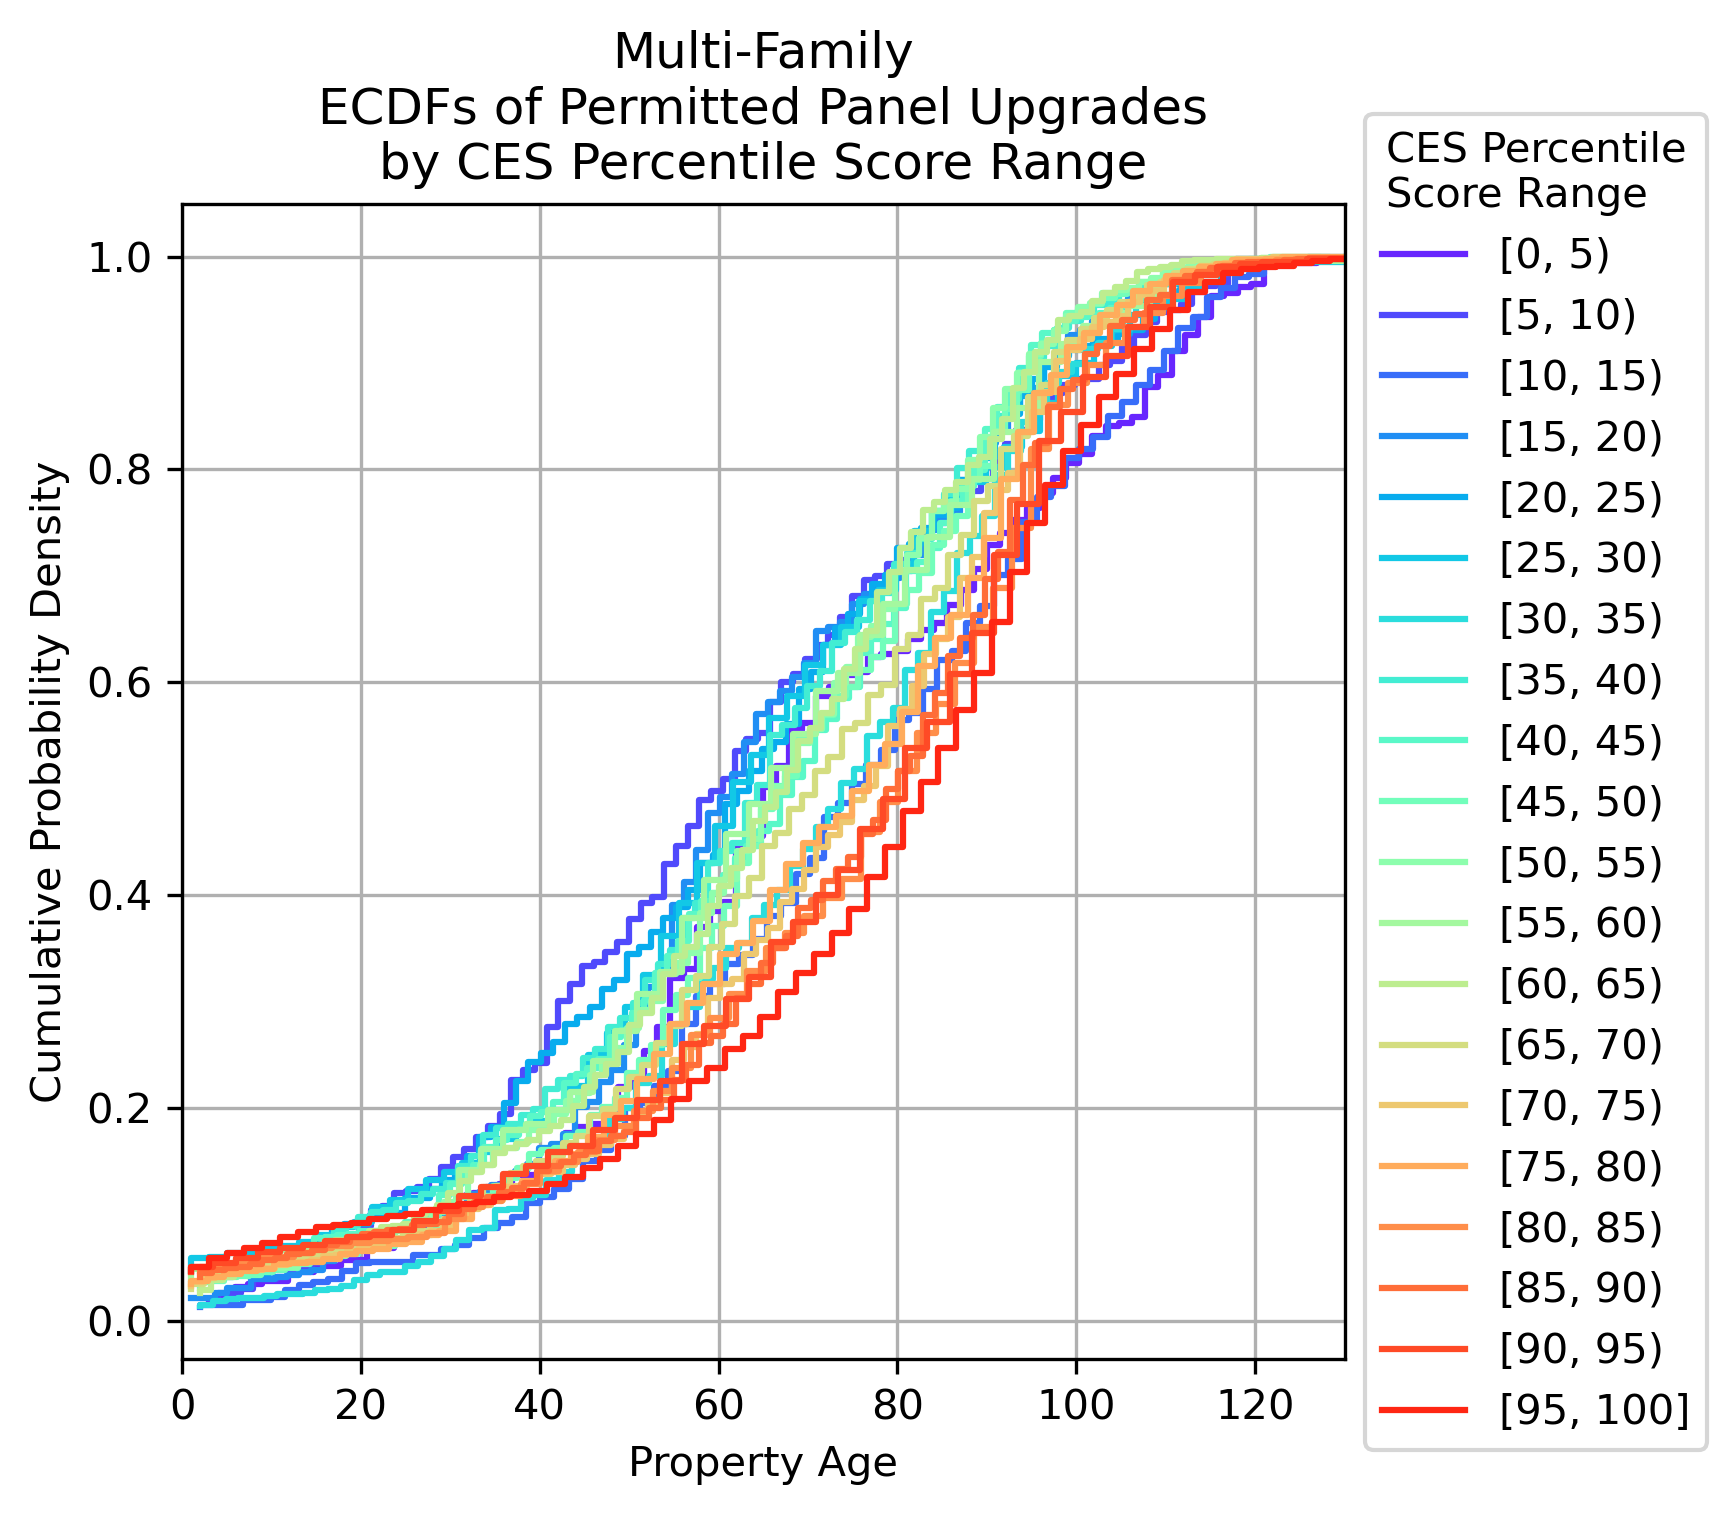
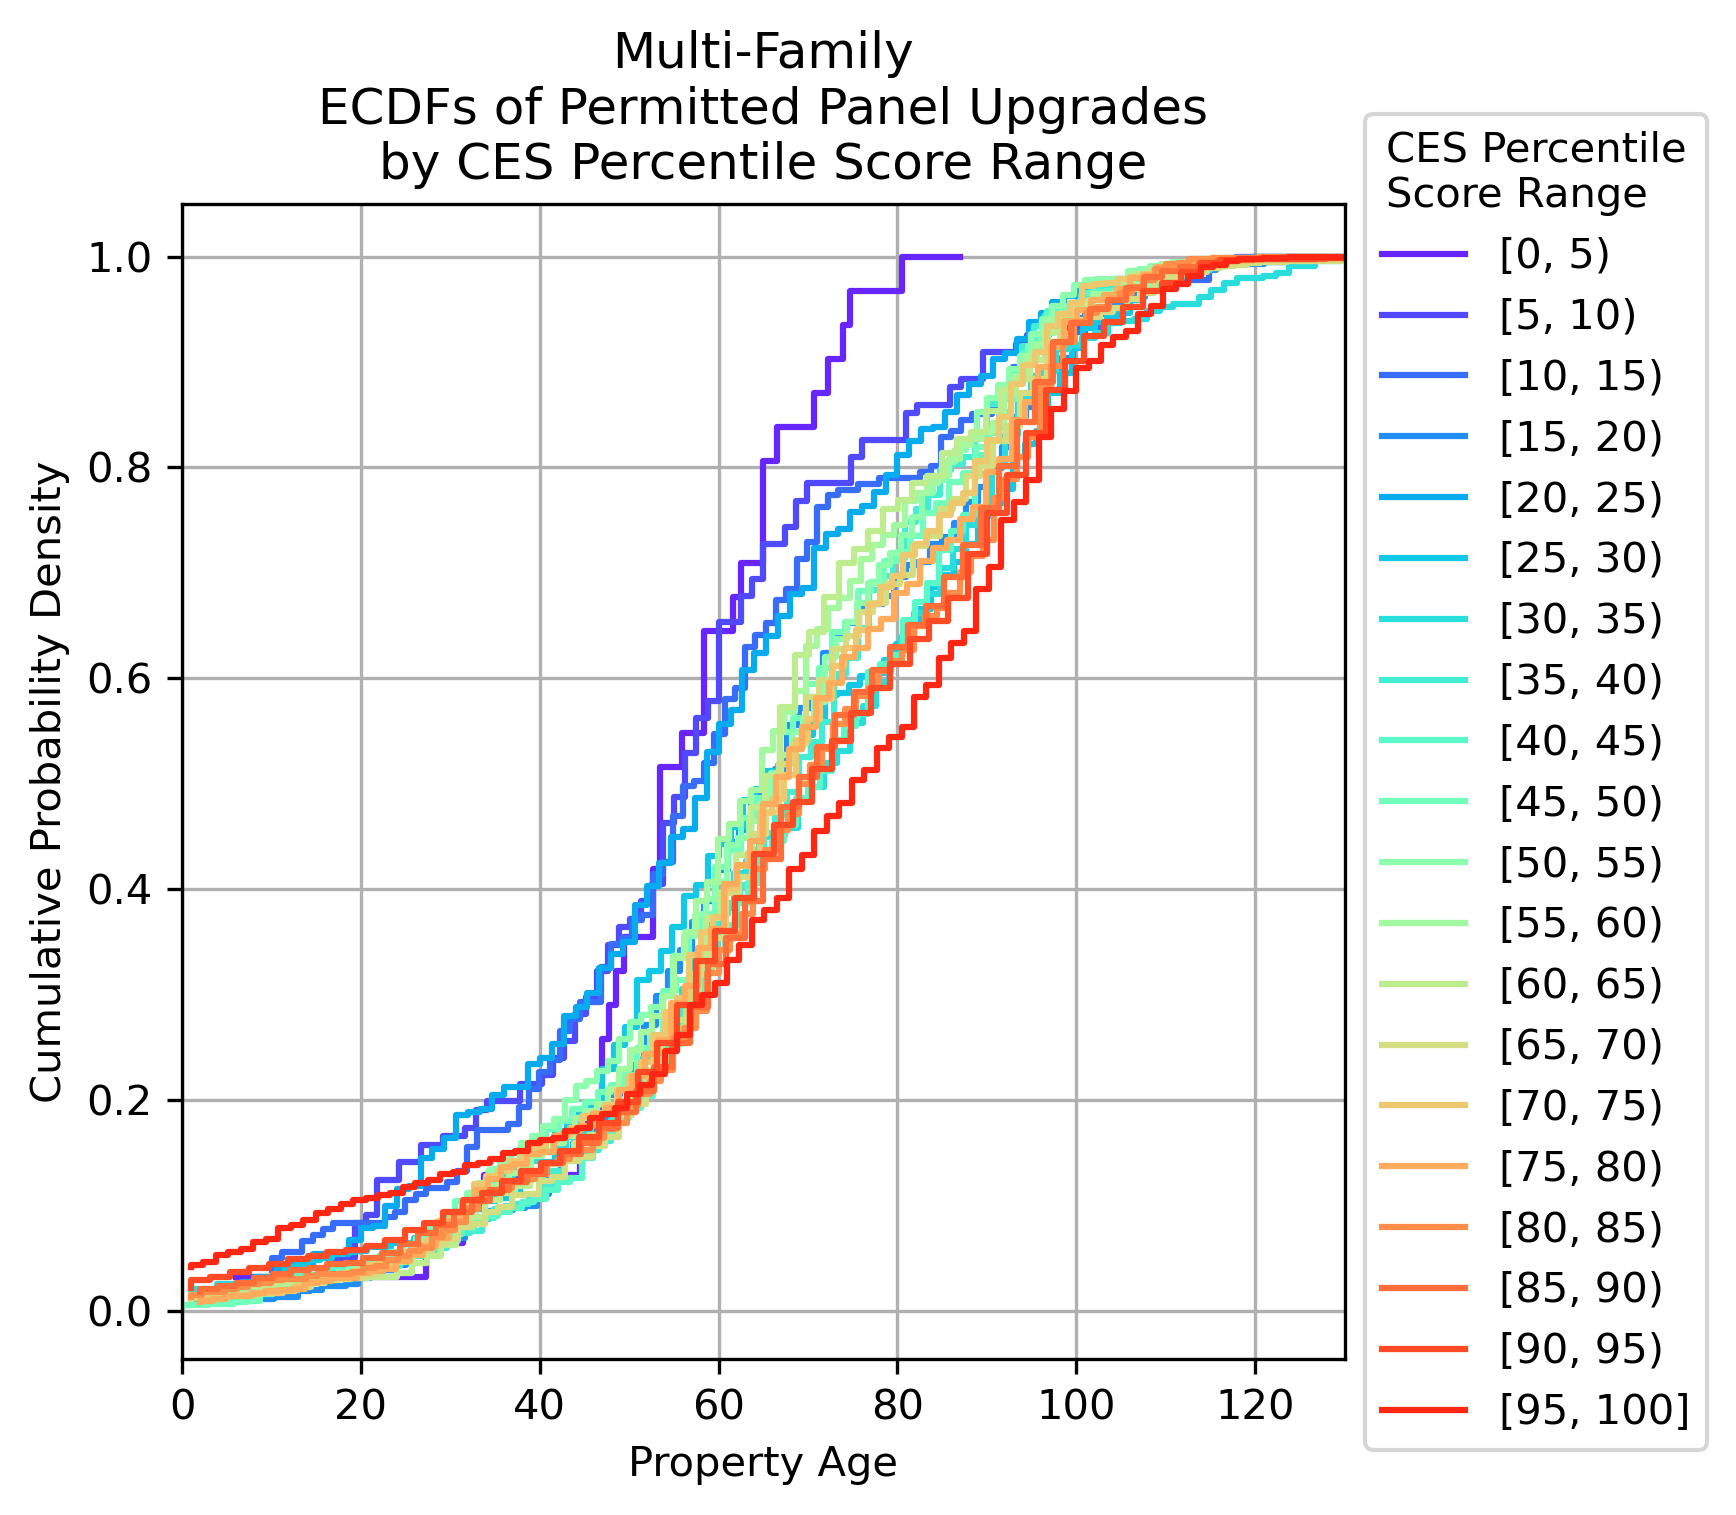
Update feature extraction routine for modified megaparcels.

Changed region(s): [[0.0311, 0.1551, 0.7776, 0.8997], [0.0622, 0.5894, 0.0933, 0.6205]]

diff --git a/simulation/corelogic/20240126/mf_feature_inference.py b/simulation/corelogic/20240126/mf_feature_inference.py
@@ -26,22 +26,22 @@ db_con_string = 'postgresql://' + user + '@' + host + ':' + port + '/' + db
 db_con = sql.create_engine(db_con_string)
 
 # Extract Multi-Family
-query = ''' SELECT megaparcelid,
-                   "YearBuilt" AS "year_built",
-                   "TotalBuildingAreaSqFt" AS "total_building_area_sqft",
-                   sampled,
-                   usetype,
-                   panel_size_as_built,
-                   ciscorep,
-                   issued_date,
-                   solar_pv_system,
-                   battery_storage_system,
-                   ev_charger,
-                   heat_pump,
-                   main_panel_upgrade,
-                   sub_panel_upgrade,
-                   upgraded_panel_size
-            FROM corelogic.model_data
+query = ''' SELECT "megaparcelid",
+                   "year built _ piq" AS year_built,
+                   "universal building square feet" AS total_building_area_sqft,
+                   "sampled",
+                   "usetype",
+                   "panel_size_as_built",
+                   "ciscorep",
+                   "issued_date",
+                   "solar_pv_system",
+                   "battery_storage_system",
+                   "ev_charger",
+                   "heat_pump",
+                   "main_panel_upgrade",
+                   "sub_panel_upgrade",
+                   "upgraded_panel_size"
+            FROM corelogic.model_data_20240126
             WHERE usetype = 'multi_family';'''
 
 mp = pd.read_sql(query, db_con)

diff --git a/simulation/corelogic/20240126/sf_feature_inference.py b/simulation/corelogic/20240126/sf_feature_inference.py
@@ -26,21 +26,21 @@ db_con_string = 'postgresql://' + user + '@' + host + ':' + port + '/' + db
 db_con = sql.create_engine(db_con_string)
 
 # Extract Single Family Data from Model Data Table
-query = ''' SELECT megaparcelid,
-                   "year built" AS year_built,
+query = ''' SELECT "megaparcelid",
+                   "year built _ piq" AS year_built,
                    "universal building square feet" AS total_building_area_sqft,
-                   sampled,
-                   usetype,
-                   panel_size_as_built,
-                   ciscorep,
-                   issued_date,
-                   solar_pv_system,
-                   battery_storage_system,
-                   ev_charger,
-                   heat_pump,
-                   main_panel_upgrade,
-                   sub_panel_upgrade,
-                   upgraded_panel_size
+                   "sampled",
+                   "usetype",
+                   "panel_size_as_built",
+                   "ciscorep",
+                   "issued_date",
+                   "solar_pv_system",
+                   "battery_storage_system",
+                   "ev_charger",
+                   "heat_pump",
+                   "main_panel_upgrade",
+                   "sub_panel_upgrade",
+                   "upgraded_panel_size"
             FROM corelogic.model_data_20240126
             WHERE usetype = 'single_family';'''
 
